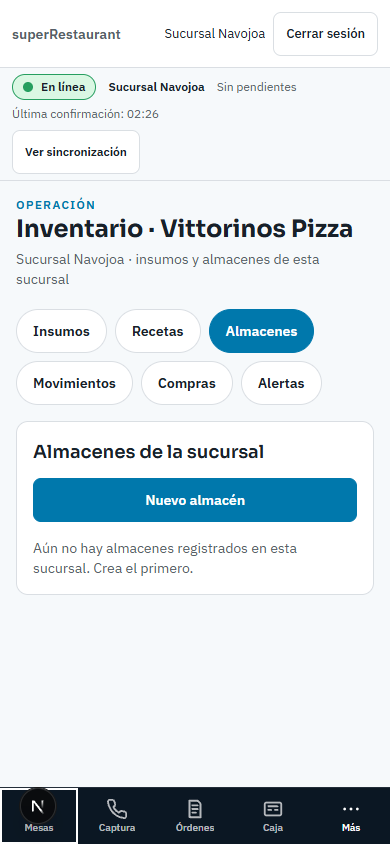
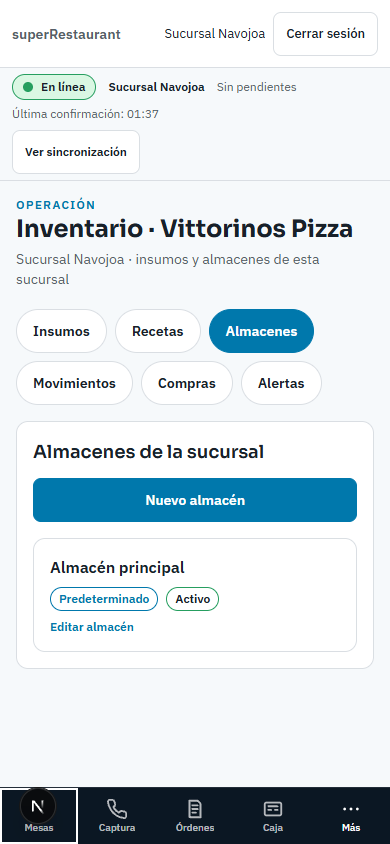
fix(inventory): el registro del equipo consume la respuesta y tiene timeout
El pase visual de inventario encontro el defecto: el fetch del registro dejaba el cuerpo sin leer, la peticion quedaba abierta y networkidle nunca se cumplia (la spec colgaba 90 s). Ahora consume el cuerpo y aborta a los 8 s; el panel distingue pendiente/rechazado y pide recargar en vez de ofrecer una accion que el API rechazaria. Pase visual 12/12 (seis pestanas x 1366x800 y 390x844), consola y red limpias; capturas actualizadas.

Changed region(s): [[0.0615, 0.6469, 0.7692, 0.7701], [0.8923, 0.6777, 0.9231, 0.7085], [0.3692, 0.1232, 0.4, 0.154]]

diff --git a/apps/web/src/app/app/inventario/use-inventory-device.ts b/apps/web/src/app/app/inventario/use-inventory-device.ts
@@ -5,32 +5,37 @@ import type { BranchScope } from "@super-restaurant/shared-types";
 
 import { registerInventoryDevice, resolveInventoryDeviceId } from "../../../lib/inventory-device";
 
+export type InventoryDeviceStatus = "pending" | "ready" | "rejected";
+
 export interface InventoryDeviceState {
   /** Derived per-actor id; empty until the effect resolves the browser profile. */
   readonly deviceId: string;
-  /** True only after the server confirmed the device as `active` for this actor and branch. */
-  readonly ready: boolean;
+  /**
+   * `ready` only after the server confirmed the device as active for this actor and branch.
+   * `rejected` means the registration failed or timed out: the API would reject the writes.
+   */
+  readonly status: InventoryDeviceStatus;
 }
 
 /**
  * Resolves and registers the inventory device once per mount. Writes stay disabled until the
- * registration succeeded: the API now rejects movements and receipts from a device that is not
+ * registration succeeded: the API rejects movements and receipts from a device that is not
  * registered for the actor, and the UI must not offer an action that is going to fail.
  */
 export function useInventoryDevice(actorId: string, scope: BranchScope): InventoryDeviceState {
-  const [state, setState] = useState<InventoryDeviceState>({ deviceId: "", ready: false });
+  const [state, setState] = useState<InventoryDeviceState>({ deviceId: "", status: "pending" });
 
   useEffect(() => {
     let cancelled = false;
     if (actorId === "") {
-      setState({ deviceId: "", ready: false });
+      setState({ deviceId: "", status: "rejected" });
       return undefined;
     }
     const storage = typeof window === "undefined" ? undefined : window.localStorage;
     const deviceId = resolveInventoryDeviceId(storage, actorId, () => crypto.randomUUID());
-    setState({ deviceId, ready: false });
+    setState({ deviceId, status: "pending" });
     void registerInventoryDevice({ deviceId, scope }).then((ok) => {
-      if (!cancelled) setState({ deviceId, ready: ok });
+      if (!cancelled) setState({ deviceId, status: ok ? "ready" : "rejected" });
     });
     return () => {
       cancelled = true;

diff --git a/apps/web/src/app/app/inventario/movements-panel.tsx b/apps/web/src/app/app/inventario/movements-panel.tsx
@@ -9,6 +9,7 @@ import type {
 import { useEffect, useState, type FormEvent, type ReactNode } from "react";
 
 import { Field } from "../../../components/field-hint";
+import type { InventoryDeviceStatus } from "./use-inventory-device";
 import {
   INVENTORY_MOVEMENT_ACTIONS,
   INVENTORY_MOVEMENT_ACTION_LABELS,
@@ -67,7 +68,7 @@ interface MovementsPanelProps {
   /** Derived per-actor id; the API rejects movements from a device it does not know. */
   readonly deviceId: string;
   /** True only after the device is registered for this actor and branch. */
-  readonly deviceReady: boolean;
+  readonly deviceStatus: InventoryDeviceStatus;
   readonly items: readonly InventoryItemV1[];
   readonly warehouses: readonly InventoryWarehouseV1[];
   readonly itemsStatus: LoadStatus;
@@ -79,7 +80,7 @@ export function MovementsPanel({
   action,
   canManage,
   deviceId,
-  deviceReady,
+  deviceStatus,
   items,
   warehouses,
   itemsStatus,
@@ -184,7 +185,7 @@ export function MovementsPanel({
                 key={kind}
                 type="button"
                 className={uiButton(kind === "waste" ? "danger" : "primary")}
-                disabled={!catalogReady || !deviceReady}
+                disabled={!catalogReady || deviceStatus !== "ready"}
                 onClick={() => setDialog(kind)}
               >
                 {INVENTORY_MOVEMENT_ACTION_LABELS[kind]}
@@ -210,9 +211,11 @@ export function MovementsPanel({
           Necesitas al menos un insumo y un almacén en esta sucursal para registrar movimientos.
         </p>
       )}
-      {!deviceReady && (
+      {deviceStatus !== "ready" && (
         <p role="status" className="text-sm text-text-muted">
-          Registrando este equipo… podrás guardar movimientos en cuanto quede autorizado.
+          {deviceStatus === "rejected"
+            ? "No se pudo confirmar este equipo para inventario. Recarga la página para intentarlo de nuevo."
+            : "Registrando este equipo… podrás guardar movimientos en cuanto quede autorizado."}
         </p>
       )}
 

diff --git a/apps/web/src/app/app/inventario/purchasing-panel.tsx b/apps/web/src/app/app/inventario/purchasing-panel.tsx
@@ -4,6 +4,7 @@ import type { InventoryItemV1, InventoryWarehouseV1 } from "@super-restaurant/sh
 import { useEffect, useState, type FormEvent, type ReactNode } from "react";
 
 import { Field } from "../../../components/field-hint";
+import type { InventoryDeviceStatus } from "./use-inventory-device";
 import {
   ensureInventoryIdempotencyKey,
   formatInventoryNumber,
@@ -73,7 +74,7 @@ interface PurchasingPanelProps {
   /** Derived per-actor id; the API rejects receipts from a device it does not know. */
   readonly deviceId: string;
   /** True only after the device is registered for this actor and branch. */
-  readonly deviceReady: boolean;
+  readonly deviceStatus: InventoryDeviceStatus;
   readonly items: readonly InventoryItemV1[];
   readonly itemsStatus: LoadStatus;
   readonly warehouses: readonly InventoryWarehouseV1[];
@@ -85,7 +86,7 @@ export function PurchasingPanel({
   action,
   canManage,
   deviceId,
-  deviceReady,
+  deviceStatus,
   items,
   itemsStatus,
   warehouses,
@@ -196,7 +197,7 @@ export function PurchasingPanel({
   const activeSuppliers = suppliers?.filter((supplier) => supplier.active) ?? [];
   const catalogReady = itemsStatus === "ready" && items.length > 0
     && suppliers !== undefined && activeSuppliers.length > 0;
-  const receiveReady = deviceReady && warehousesStatus === "ready" && warehouses.length > 0 && deviceId !== "";
+  const receiveReady = deviceStatus === "ready" && warehousesStatus === "ready" && warehouses.length > 0 && deviceId !== "";
 
   function supplierSaved(saved: SupplierV1): void {
     setSuppliers((current) => {

diff --git a/apps/web/src/lib/inventory-device.ts b/apps/web/src/lib/inventory-device.ts
@@ -6,6 +6,9 @@ import { ensureInventoryDeviceId, type InventoryDeviceStore } from "./inventory-
 /** Same-origin route that registers the device for this actor inside a scoped branch. */
 export const INVENTORY_DEVICE_REGISTRATION_PATH = "/api/sync/devices";
 
+/** A stuck registration must not hang the page or block the sync bar's `networkidle`. */
+export const INVENTORY_DEVICE_REGISTRATION_TIMEOUT_MS = 8_000;
+
 /**
  * The id inventory writes send: derived per `(browser profile, actor)`, exactly like the sync
  * bridge. The profile id stays in `localStorage`; only the derived id reaches the API, so a
@@ -28,6 +31,7 @@ export async function registerInventoryDevice(input: {
   readonly deviceId: string;
   readonly scope: BranchScope;
   readonly fetchImpl?: typeof fetch;
+  readonly timeoutMs?: number;
 }): Promise<boolean> {
   const send = input.fetchImpl ?? (typeof fetch === "function" ? fetch : undefined);
   if (send === undefined) return false;
@@ -37,7 +41,10 @@ export async function registerInventoryDevice(input: {
       cache: "no-store",
       headers: { "content-type": "application/json" },
       method: "POST",
+      signal: AbortSignal.timeout(input.timeoutMs ?? INVENTORY_DEVICE_REGISTRATION_TIMEOUT_MS),
     });
+    // Consume the body: an unread response keeps the request open and blocks `networkidle`.
+    await response.text().catch(() => undefined);
     return response.ok;
   } catch {
     return false;

diff --git a/apps/web/src/app/app/inventario/inventory-workspace.tsx b/apps/web/src/app/app/inventario/inventory-workspace.tsx
@@ -351,7 +351,7 @@ export function InventoryWorkspace({ action, actorId, canManage, initialTab, sco
             action={action}
             canManage={canManage}
             deviceId={device.deviceId}
-            deviceReady={device.ready}
+            deviceStatus={device.status}
             items={items.status === "ready" ? items.value : []}
             warehouses={warehouses.status === "ready" ? warehouses.value : []}
             itemsStatus={items.status}
@@ -367,7 +367,7 @@ export function InventoryWorkspace({ action, actorId, canManage, initialTab, sco
             action={action}
             canManage={canManage}
             deviceId={device.deviceId}
-            deviceReady={device.ready}
+            deviceStatus={device.status}
             items={items.status === "ready" ? items.value : []}
             itemsStatus={items.status}
             warehouses={warehouses.status === "ready" ? warehouses.value : []}

diff --git a/HANDOFF.md b/HANDOFF.md
@@ -1,3 +1,16 @@
+## Ola 5, tercer corte — el inventario valida su dispositivo (M2 cerrado en su alcance técnico) — 2026-11-26 (nivel A/C/D, solo dsh)
+
+- **Fusionado en `main`:** #147 `o0-device-registry` (A). `main` en `83e45642`. CI verde (Verify, PostgreSQL, Playwright).
+- **Decisión de Emmanuel:** opción 1 — derivar el `deviceId` de inventario **por actor** en lugar de validar el id de perfil (que habría dejado `unknown` a todo equipo compartido).
+- **Identidad:** nuevo `apps/web/src/lib/device-id.ts` con el hash determinista que ya usaba el sync (`stableEntityId` + `deviceIdForActor`); `web-sync-bridge` lo reexporta y `inventory-device.ts` deriva el id de inventario por `(perfil, actor)`. El perfil de `localStorage` no cambia y nunca viaja al API.
+- **Registro previo:** `useInventoryDevice` registra el equipo en `POST /api/sync/devices` con el scope; movimientos y compras quedan bloqueados con un aviso hasta que el servidor confirma el equipo (o explica que no se pudo y pide recargar). El registro tiene **timeout de 8 s** y consume el cuerpo de la respuesta: un `fetch` con cuerpo sin leer deja la petición abierta y bloquea `networkidle` en cualquier E2E. Los movimientos envían el id en `x-device-id` (la acción lo valida como UUID y lo pone en la cabecera).
+- **Validación en el API:** `app_private.sync_device_state` en movimientos y recepción de compras; dispositivo ajeno, desconocido o revocado → `403 INVENTORY_DEVICE_REJECTED` sin efectos. Sigue siendo traza de auditoría: el actor sale de la sesión y RBAC decide.
+- **Pruebas:** unidad del id derivado (estable, distinto por actor, perfil intacto) y del registro (cuerpo/scope, 403 y fallo de red); movimientos **20/20** y compras **27/27** con los casos de dispositivo ajeno y de traza omitida; **flujo HTTP de inventario en verde** con el bloque nuevo `device_registry_isolation` (recepción y movimiento ajenos → 403 y cero movimientos; la recepción real entra con el equipo registrado, `local_cleanup stopped=true`); `verify:inventory-schema:rollback` **92** migraciones desde cero `ok` (`local_cleanup stopped=true`); web test/lint/typecheck/build y `e2e:typecheck` en 0.
+- **Decisiones:** (1) el registro es previo y la UI no ofrece la acción hasta confirmarlo; (2) el contrato sigue permitiendo omitir el `deviceId`, pero un id presente y ajeno nunca se acepta (queda P3 si se quiere exigir); (3) una sola fuente para la derivación, compartida con el sync; (4) la historia ya registrada con ids de perfil se conserva sin reescribir.
+- **M2:** el alcance técnico queda cerrado (`o0-purge-wire`, `o0-leader-wire`, `o0-device-registry` verdes). Las **puertas humanas** siguen abiertas y se listan aparte: dispositivo real (mobile/KDS), impresora Bluetooth, ratificación del ASAP 15/30 min y la prueba única del operador (D1–D7, T1–T4, seis pestañas). Ninguna fila de «Día operable» pasa a DONE.
+- **Desviaciones y hallazgo del pase visual:** revisión cruzada por otra familia pendiente (solo dsh con cuota); el orquestador hizo una segunda pasada del diff. El pase visual de inventario **encontró un defecto real**: el `fetch` del registro dejaba el cuerpo de la respuesta sin leer, así que la petición quedaba abierta y `networkidle` nunca se cumplía (la spec colgaba 90 s). Corregido consumiendo el cuerpo y con `AbortSignal.timeout(8 s)`; el panel muestra «no se pudo confirmar este equipo, recarga» cuando falla. Después: **12/12** (seis pestañas × 1366×800 y 390×844), consola y red limpias, capturas en `docs/agentic/visual-verify-2026-11-26/`.
+- **Siguiente acción mínima:** `o5-compras-ui-read` (C) y después la Ola 6 (M4: `m4-metrics-catalog` + `m4-adr-014-exports`). Sin workers vivos ni PRs abiertos al cerrar.
+
 ## Ola 5, segundo corte — mapeo de rechazos del sync y comentarios de compras — 2026-11-26 (nivel A/B/D, solo dsh)
 
 - **Fusionado en `main`:** #141 `o5-sync-rejection-map` (B), #142 `o5-func-comments` (A, aplicada a dev), #143 cierre documental y #145 el pase visual de `/app/sync` en móvil. `main` en `6085bf44`. CI verde en los cuatro (Verify, PostgreSQL, Playwright).

diff --git a/docs/agentic/device-identity-decision.md b/docs/agentic/device-identity-decision.md
@@ -9,7 +9,9 @@
    hash que usa el puente de sync (`syncDeviceIdForActor`). Así una tablet compartida tiene una fila
    por cajero en `app.sync_devices` en vez de una fila del primer actor que la registró.
 3. El panel **registra el equipo antes de escribir** (`POST /api/sync/devices` con
-   `{deviceId, scope}`) y no habilita movimientos ni recepción hasta que el servidor lo confirma.
+   `{deviceId, scope}`) y no habilita movimientos ni recepción hasta que el servidor lo confirma. El
+   registro usa un timeout de 8 s y consume la respuesta: si falla, la UI lo dice y pide recargar en
+   lugar de ofrecer una acción que el API va a rechazar.
 4. El servidor **valida** el `deviceId` contra `app_private.sync_device_state` en movimientos y
    recepción de compras: un dispositivo `unknown` o `revoked` se rechaza con
    `403 INVENTORY_DEVICE_REJECTED` y sin efectos. Sigue sin ser una autorización: el actor sale de la
